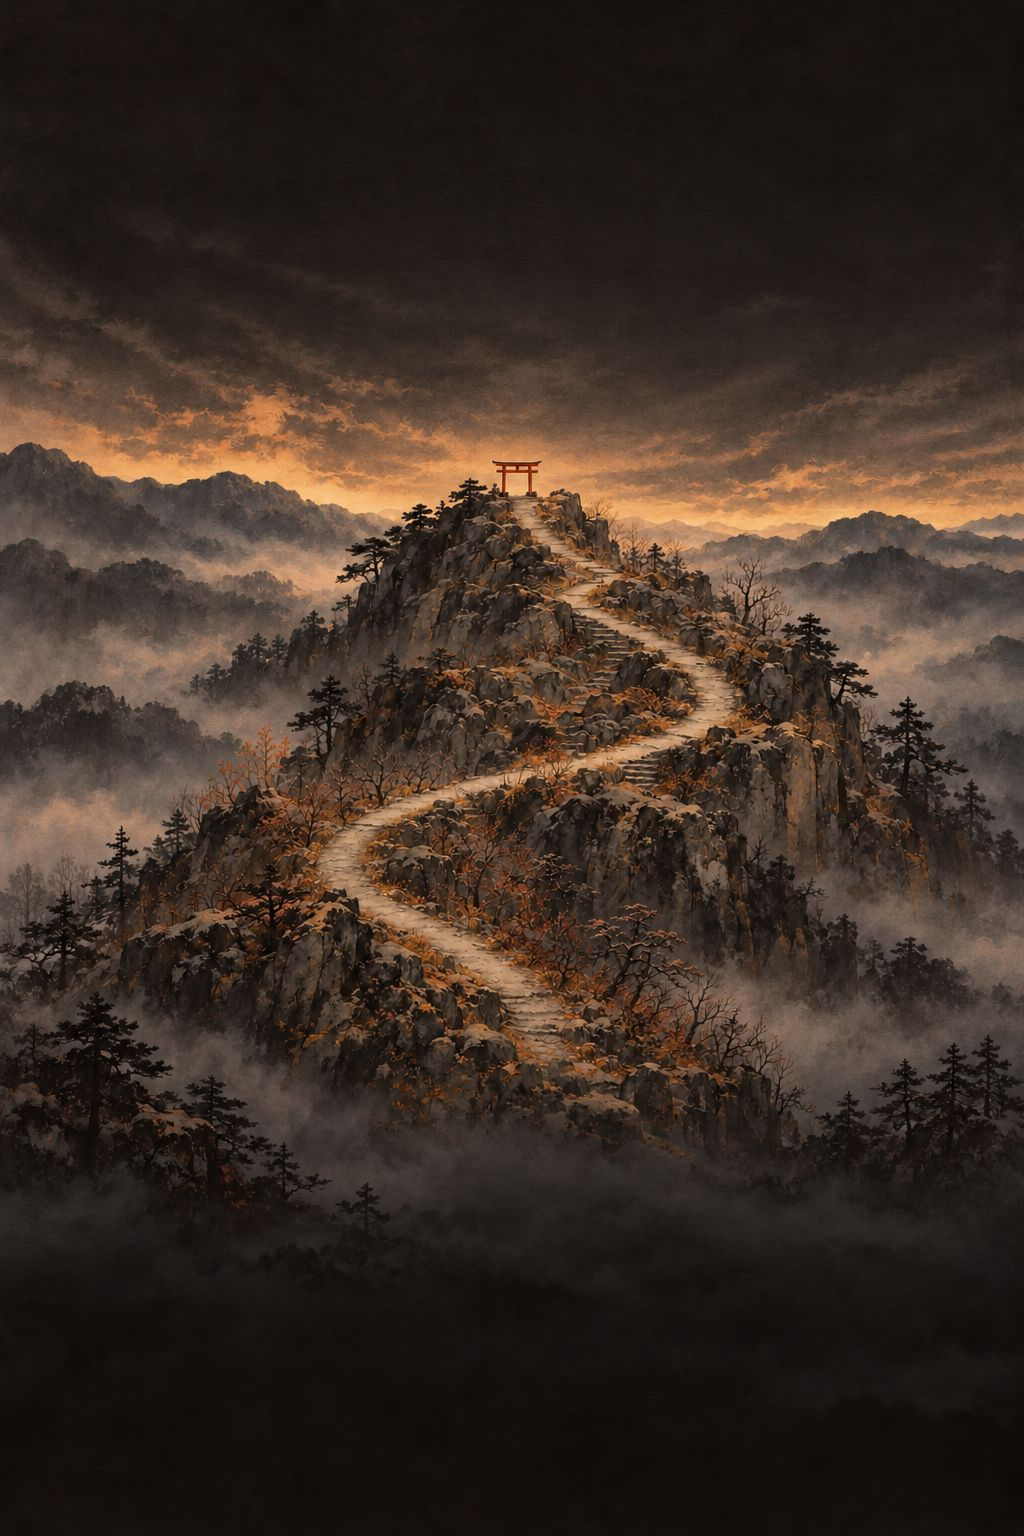
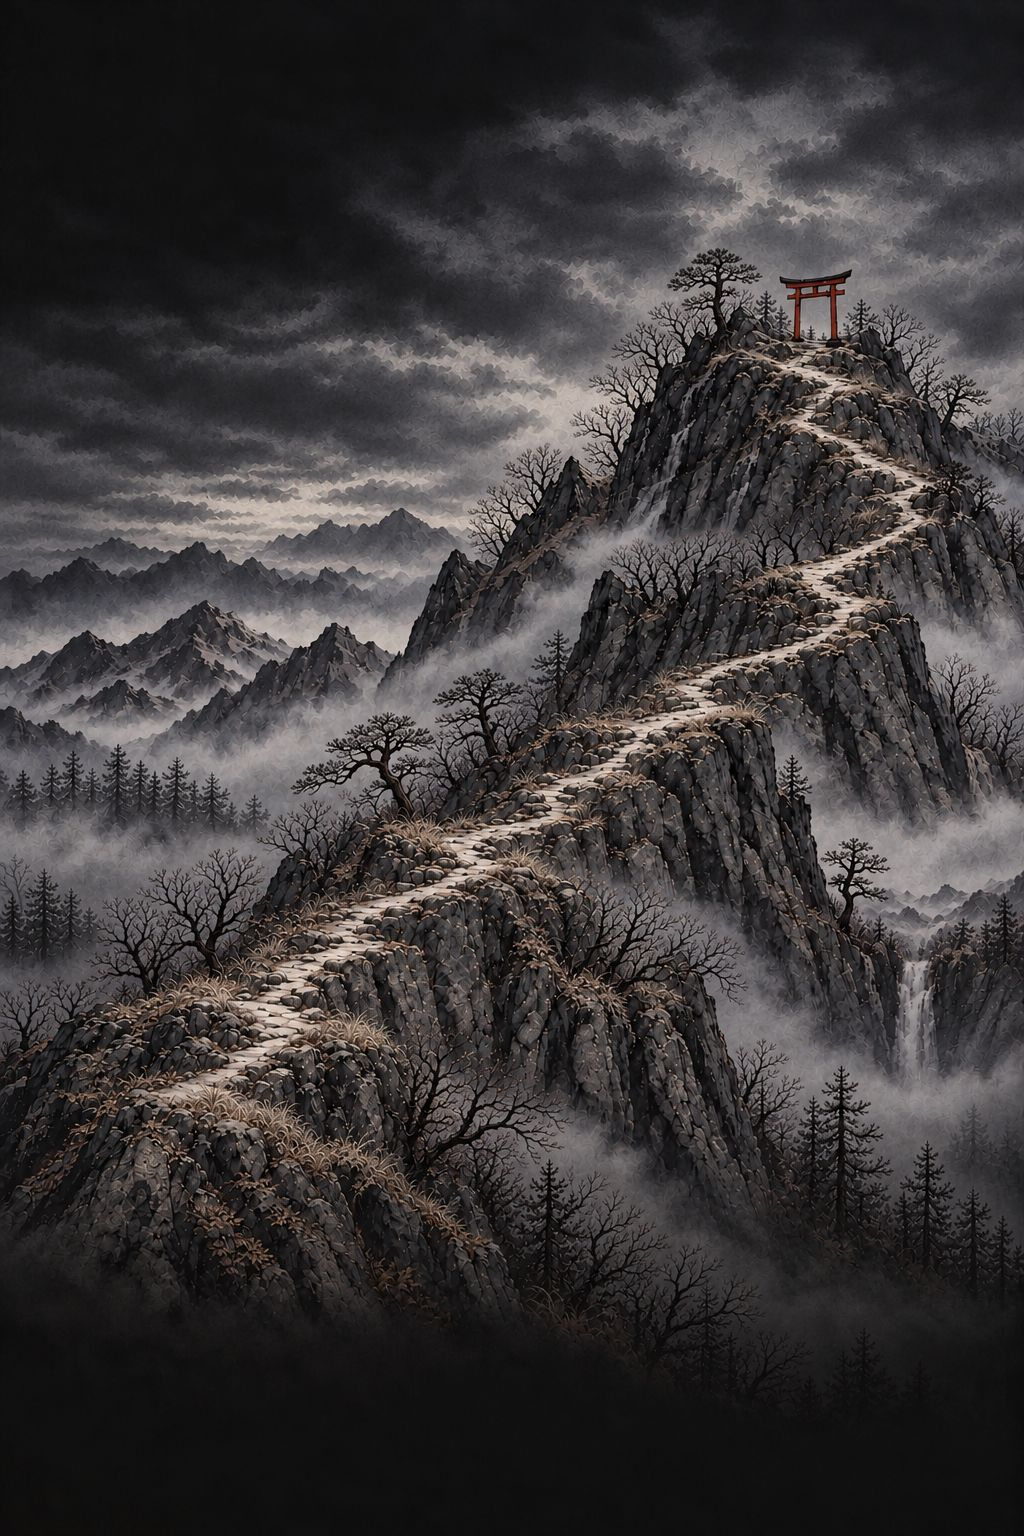
v0.20.3: One reaction per friend per day (buttons grey out after sending); November mountain art
Claude-Session: https://claude.ai/code/session_01KcNjAAMXczDP8kvpzxopU7

diff --git a/index.html b/index.html
@@ -269,6 +269,7 @@
 
   .react-btns{ display:flex;gap:10px;margin-top:14px; }
   .react-btns button{ flex:1;padding:13px 6px;border-radius:14px;border:1px solid var(--line2);background:var(--card2);color:var(--washi);font-size:16px;font-weight:700;cursor:pointer;font-family:var(--sans); }
+  .react-btns.sent button{ filter:grayscale(1);opacity:.35;pointer-events:none; }
   .react-btns button:active{ background:rgba(229,72,46,.2);transform:scale(.96); }
 
   /* 指南 */
@@ -1106,7 +1107,7 @@ function microGoalCard(){
 }
 
 let currentAvatar='🧘';
-const APP_VERSION='v0.20.2';
+const APP_VERSION='v0.20.3';
 // 六種の修行のカテゴリ色（すごろくの円グラフ配色に使用）
 const CAT_COLORS={ push:'#D55E00', pull:'#E69F00', squat:'#56B4E9', core:'#F0E442', bridge:'#0072B2', hand:'#009E73' };
 let SUM=EX.reduce((a,e)=>a+e.cur,0);
@@ -1333,10 +1334,10 @@ let trainedToday=false; // 今日修行したか（recompute()で計算）
 const MTN_PATH=[[54.7,70.6],[53.2,67.7],[45.9,62.5],[37.1,57.3],[43,52.1],[54.7,50.5],[62,49.5],[68.4,47.9],[70.8,46.2],[69.3,44.6],[66.4,43.3],[61,42.3],[57.6,40.7],[56.6,39.1],[55.2,37.1],[52.2,34.8],[51.3,33.8]];
 const MTN_ART={};
 for(let m=1;m<=12;m++) MTN_ART[m]={img:`images/mtn-${String(m).padStart(2,'0')}.jpg`,path:MTN_PATH};
-// 新しい山の絵（鳥居が右上）。道の形は2種類：まっすぐ（1〜5・10・12月）とジグザグ（6〜9月）。11月はまだ古い絵
+// 新しい山の絵（鳥居が右上）。道の形は2種類：まっすぐ（1〜5・10・12月）とジグザグ（6〜9・11月）
 const MTN_PATH2=[[20,70],[29,63.5],[39,59],[49,54.4],[58.6,49.9],[68,46],[76,42],[84,37.5],[88,33],[86,27.7],[81,23.2],[79.5,21.5]];
 const MTN_PATH2_JUN=[[18.5,70.7],[25.4,64.8],[37,59],[47,55],[54.7,51.8],[62.5,47.3],[72,44.7],[80,40.7],[86,36.2],[89,31.6],[84,27.7],[80,24.5],[79.5,22]];
-[1,2,3,4,5,6,7,8,9,10,12].forEach(m=>Object.assign(MTN_ART[m],{path:(m>=6&&m<=9)?MTN_PATH2_JUN:MTN_PATH2,v:2}));
+for(let m=1;m<=12;m++) Object.assign(MTN_ART[m],{path:((m>=6&&m<=9)||m===11)?MTN_PATH2_JUN:MTN_PATH2,v:2});
 // 山道の折れ線上で、麓からの道のり t（0〜1）にある点を返す（%座標）
 function pathPoint(pts,t){
   // 画像は縦長(2:3)なので、長さは実寸比で測る
@@ -2822,12 +2823,19 @@ function friendCompare(idx){
         </div>`).join('')}
     </div>
     <p style="font-size:14px;color:var(--sub);text-align:center;margin:10px 0 4px">${trained?'Trained today ✓':'Hasn’t trained yet today'}</p>
-    <div class="react-btns">${reactBtns}</div>
+    <div class="react-btns${sentToday(f.name)?' sent':''}">${reactBtns}</div>
+    ${sentToday(f.name)?'<p style="font-size:14px;color:var(--sub);text-align:center;margin-top:6px">Sent today. You can send again tomorrow.</p>':''}
     ${!trained?'<p style="font-size:14px;color:var(--sub);text-align:center;margin-top:6px">On days they’ve trained, you can send any reaction</p>':''}
     <button class="btnghost" onclick="closeModal()">Close</button>
   </div>`);
 }
+// 友だち1人につき1日1回まで（端末に記録）
+function sentKey(){ return 'tanren_sent_'+todayStr(); }
+function sentToday(name){ try{ return (JSON.parse(localStorage.getItem(sentKey())||'[]')).includes(name); }catch(e){ return false; } }
+function markSent(name){ try{ const a=JSON.parse(localStorage.getItem(sentKey())||'[]'); if(!a.includes(name)) a.push(name); localStorage.setItem(sentKey(),JSON.stringify(a)); }catch(e){} }
 function sendReact(icon, name){
+  if(sentToday(name)) return;
+  markSent(name);
   const serif=randomSerif(icon);
   closeModal();
   const lb={'🔥':'Fire!','💪':'Strong!','💙':'Encourage','👊':'Kiai!'}[icon]||'Cheer';
